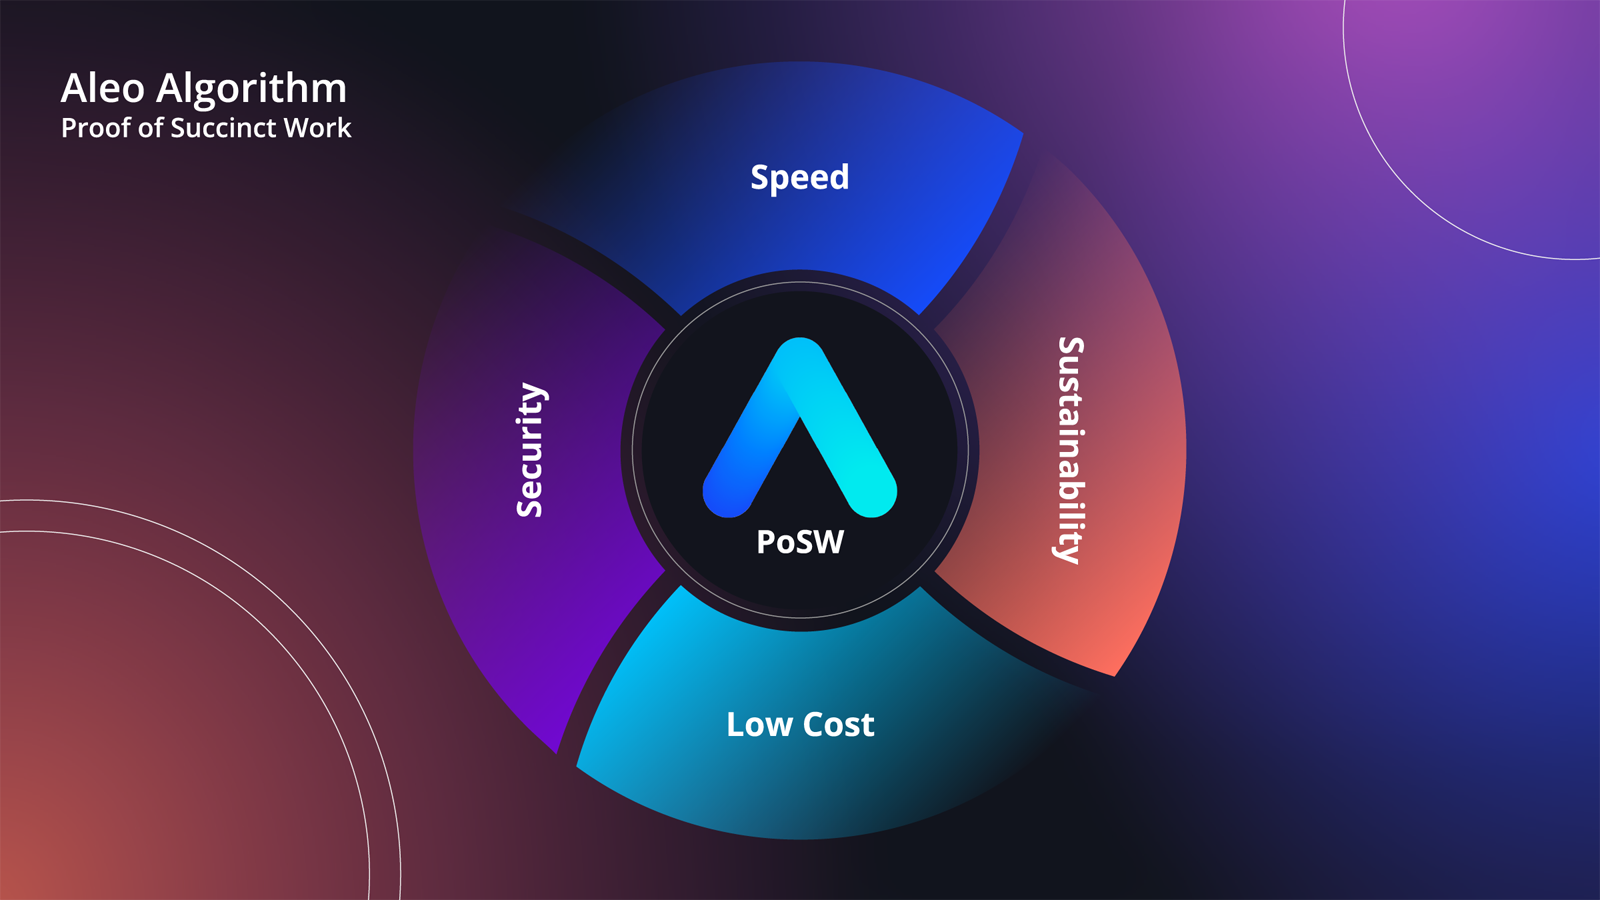
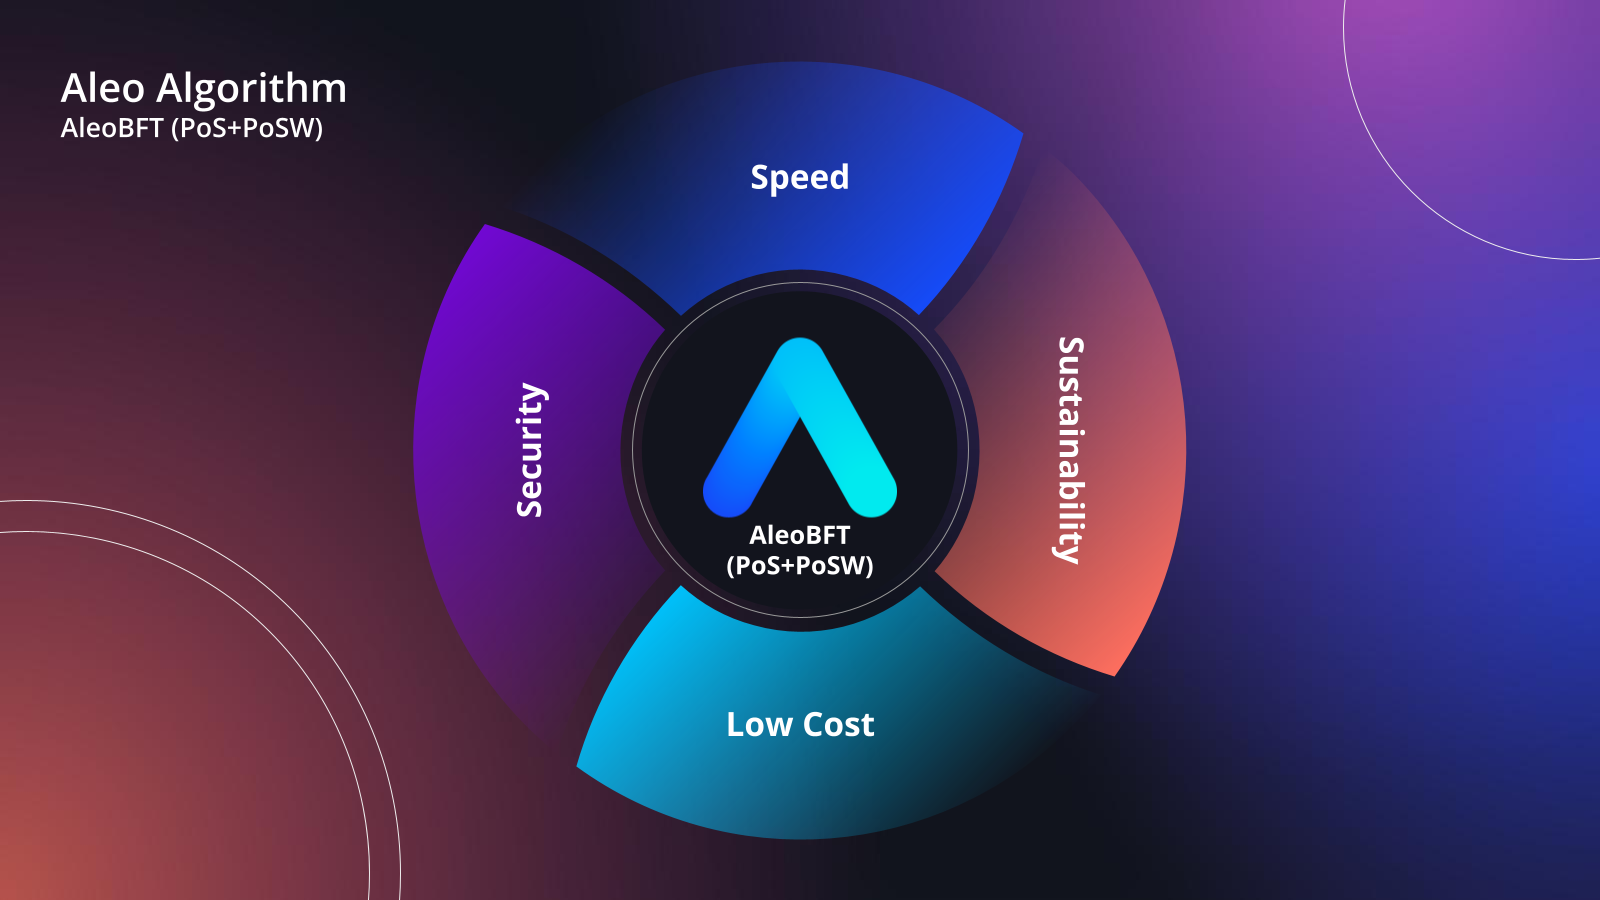
Change Aleo Image

Changed region(s): [[0.25, 0.2489, 0.5625, 0.84], [0.0312, 0.1244, 0.2188, 0.1556]]

diff --git a/src/components/product/Aleo.vue b/src/components/product/Aleo.vue
@@ -112,11 +112,11 @@
       </p>
       <p v-html='$t("MSG_ALEO_TOKENOMICS_CAPTION")' />
       <h3>{{ $t('MSG_ALEO_VS_COMPETITORS') }}</h3>
-      <p v-html='$t("MSG_ALEO_VS_COMPETITORS_CAPTION")' />
-      <p><img class='project-promo-content' src='product/aleo/aleo-comparison-jp.jpg'></p>
+      <p v-html='$t("MSG_ALEO_VS_COMPETITORS_CAPTION")' />[ locale === "ja-JP" ? "selected" : "" ]
+      <p><img class='project-promo-content' :src='locale === "ja-JP" ? "product/aleo/aleo-comparison-jp.png" : "product/aleo/aleo-comparison.png"'></p>
       <h4>{{ $t('MSG_ZK_PROOF_PRIVACY') }}</h4>
       <p v-html='$t("MSG_ZK_PROOF_PRIVACY_CAPTION")' />
-      <p><img class='project-promo-content' src='product/aleo/aleo-algorithm-jp.jpg'></p>
+      <p><img class='project-promo-content' :src='locale === "ja-JP" ? "product/aleo/aleo-algorithm-jp.png" : "product/aleo/aleo-algorithm.png"'></p>
       <h3>{{ $t('MSG_ALEO_FUTURE') }}</h3>
       <p v-html='$t("MSG_ALEO_FUTURE_CAPTION_1")' />
       <div class='logo-display'>
@@ -210,6 +210,8 @@ interface Query {
   goodId: string;
   purchaseAmount: number;
 }
+
+const { locale } = useI18n({ useScope: 'global' })
 
 const route = useRoute()
 const query = computed(() => route.query as unknown as Query)
